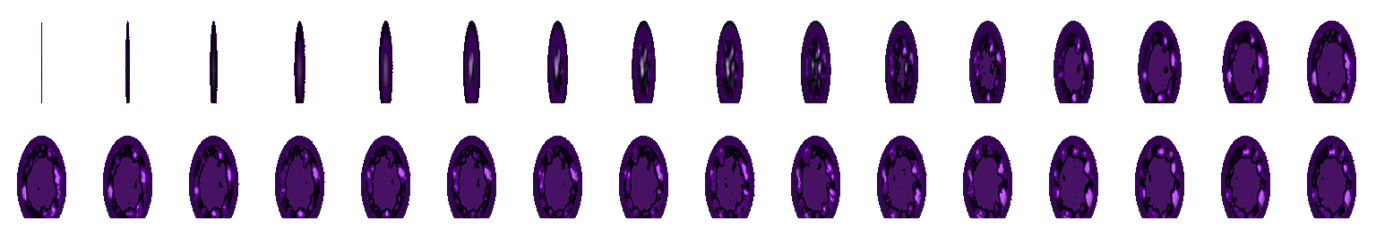
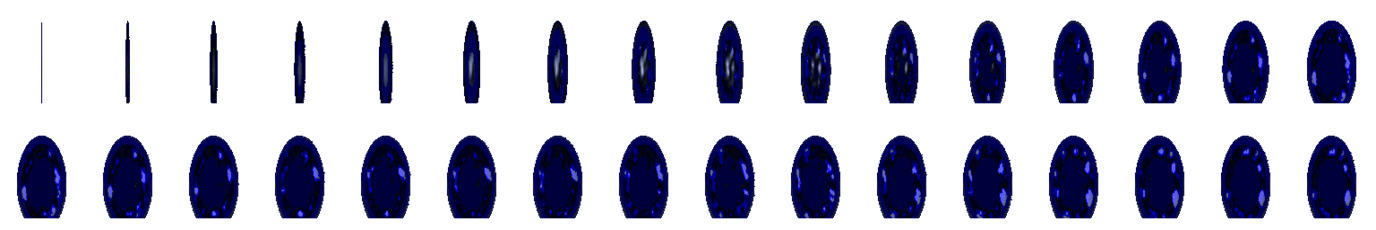
v1.12.088: rift play-pass fixes - the Guardian portal is violet at last (PNG missiles are quantised to a palette with no violet ramp: the sheet is vanilla's blue and scrollrt draws MissileID::RiftPortalPurple through GuardianPortalRgbTable, blue ramp -> violet values); Leave closes only the menu; a 

diff --git a/Source/oracool/rift.cpp b/Source/oracool/rift.cpp
@@ -1,6 +1,7 @@
 #include "oracool/rift.h"
 
 #include <algorithm>
+#include <array>
 #include <string>
 
 #include <fmt/format.h>
@@ -60,6 +61,11 @@ struct RiftState {
 	/** The entry tile in town has to be LEFT before it can be walked into: the hero stands beside
 	 * the gate to click it, and the tile in front is where they may already be standing. */
 	bool entryArmed = false;
+	/** A cleared Nephalem Rift's closing clock (NephalemRiftCloseSeconds): ticks until the rift ends on
+	 * its own, 0 when not running. */
+	int closeTicks = 0;
+	/** Ticks until the next "the guardian found no ground" note, so a stuck spawn says so once in a while. */
+	int spawnNoteTicks = 0;
 };
 
 RiftState State;
@@ -148,7 +154,9 @@ bool InRift()
 
 bool RiftForbidsTownPortal()
 {
-	return InRift() && State.kind == RiftKind::Guardian;
+	// Nowhere, since 2026-09-20 (user: "Town portals are to be allowed in Guardian Rift"). Plan r9
+	// refused it inside a Guardian Rift for one version.
+	return false;
 }
 
 int RiftTier()
@@ -221,7 +229,7 @@ bool UseGuardianKeystone(Player &player, const Item &keystone)
 		return false;
 	LightStonegate(RiftKind::Guardian);
 	LogEvent(StrCat("The keystone turns: a violet portal opens in the Rift Monument - a Guardian Rift, tier ", tier,
-	             ", fifteen minutes, no town portal. ", RiftGuardianName(State.guardian), " waits at the end."),
+	             ", fifteen minutes. ", RiftGuardianName(State.guardian), " waits at the end."),
 	    UiFlags::ColorWhitegold);
 	return true;
 }
@@ -485,6 +493,13 @@ void OnRiftMonsterKilled(const Monster &monster)
 			LogEvent(StrCat(RiftGuardianName(State.guardian), " falls, but the clock had run out: no keystone. The portal leads home."), UiFlags::ColorWhitegold);
 		else
 			LogEvent(StrCat(RiftGuardianName(State.guardian), " falls. The rift is cleared - the portal leads home."), UiFlags::ColorWhitegold);
+		// A cleared NEPHALEM Rift closes on its own a minute later (NephalemRiftCloseSeconds): the
+		// countdown runs on the HUD, and at zero a hero still inside is put down on the new-game spawn
+		// in town and the portal is gone. Nothing else ends it - the gate's menu no longer can.
+		if (State.kind == RiftKind::Nephalem) {
+			State.closeTicks = NephalemRiftCloseSeconds * RiftTicksPerSecond;
+			LogEvent(StrCat("The rift closes in ", NephalemRiftCloseSeconds, " seconds. Take what is yours."), UiFlags::ColorWhitegold);
+		}
 		PlayUiEventSound(UiEventSound::EncounterCleared);
 		return;
 	}
@@ -507,6 +522,18 @@ void ProcessRift()
 		}
 	}
 
+	// The cleared Nephalem Rift's closing clock, wherever the hero is. At zero: a hero still inside is
+	// sent to town's new-game spawn (WM_DIABRETOWN lands on ENTRY_MAIN, the (57, 67) a new hero starts
+	// on), the portal comes down and the rift is over.
+	if (State.closeTicks > 0 && --State.closeTicks == 0) {
+		const bool inside = InRift();
+		LogEvent(inside ? "The rift closes around you and spits you out in Tristram." : "The rift has closed; the Rift Monument falls dark.", UiFlags::ColorWhitegold);
+		CloseStonegate(); // removes the portal missiles, ends the rift, the closing sound
+		if (inside && MyPlayer != nullptr)
+			StartNewLvl(*MyPlayer, WM_DIABRETOWN, 0);
+		return;
+	}
+
 	if (leveltype == DTYPE_TOWN) {
 		// The portal in the gate after town is rebuilt (a death in the rift): AddStonegateObject runs
 		// before InitMissiles clears the list, so the relight happens here, once the missiles exist.
@@ -522,8 +549,17 @@ void ProcessRift()
 	if (!InRift() || State.guardianSpawned || State.creditNeeded <= 0 || State.credit < State.creditNeeded)
 		return;
 	Monster *guardian = SpawnRiftGuardian();
-	if (guardian == nullptr)
-		return; // no room this tick; tried again next tick
+	if (guardian == nullptr) {
+		// No room this tick; tried again next tick - and SAID so every five seconds, because a bar
+		// at 100% with no guardian in sight looked like nothing happening (user, 2026-09-20: "Diablo
+		// didn't spawn when i hit 100%").
+		if (State.spawnNoteTicks <= 0) {
+			LogEvent("The guardian finds no ground to rise on near you - move to open floor.", UiFlags::ColorRed);
+			State.spawnNoteTicks = 5 * RiftTicksPerSecond;
+		}
+		State.spawnNoteTicks--;
+		return;
+	}
 	State.guardianSpawned = true;
 	State.guardianId = guardian->getId();
 	LogEvent(StrCat("The rift shudders: ", RiftGuardianName(State.guardian), " rises!"), UiFlags::ColorRed);
@@ -540,6 +576,29 @@ bool RiftTimedOut() { return State.timedOut; }
 int RiftSecondsLeft()
 {
 	return (State.ticksLeft + RiftTicksPerSecond - 1) / RiftTicksPerSecond;
+}
+
+int RiftCloseSecondsLeft()
+{
+	return (State.closeTicks + RiftTicksPerSecond - 1) / RiftTicksPerSecond;
+}
+
+const uint32_t *GuardianPortalRgbTable()
+{
+	// The violet the palette never had (2026-09-20, user: "Guardian rift portal is not purple and
+	// its core background is not purple either"): missiles\portal_purple.png is quantised to the
+	// palette on load like every PNG missile, and the shared half has blue, gold, red and grey ramps
+	// but no purple, so the hue-shifted sheet came out blue. The sheet is therefore built in
+	// vanilla's own BLUE (the PAL8_BLUE ramp, indices 128-135, with a dark blue centre fill) and the
+	// Guardian portal is drawn through this table, which sends those eight blues to a violet ramp
+	// and everything else to the palette as it is - the green plate's mechanism (SetSpellTransGreen).
+	static std::array<uint32_t, 256> table;
+	static constexpr uint32_t Violet[8] = { 0xE6B4FF, 0xC080F5, 0x9B50D8, 0x7A34B4, 0x5C2290, 0x40146A, 0x280A46, 0x140424 };
+	for (int i = 0; i < 256; i++)
+		table[static_cast<size_t>(i)] = PaletteRGB[static_cast<size_t>(i)];
+	for (int i = 0; i < 8; i++)
+		table[static_cast<size_t>(PAL8_BLUE + i)] = Violet[i];
+	return table.data();
 }
 
 int RiftProgressPercent()
@@ -568,7 +627,9 @@ void DrawRiftHud(const Surface &out)
 	const int y = miniMap.position.y + miniMap.size.height + Gap;
 
 	std::string label = RiftKindName(State.kind);
-	if (State.done)
+	if (State.done && State.closeTicks > 0)
+		label += fmt::format(": cleared - closes in {:d}s", RiftCloseSecondsLeft()); // the countdown (user, 2026-09-20)
+	else if (State.done)
 		label += ": cleared";
 	else if (State.guardianSpawned)
 		label += StrCat(": ", RiftGuardianName(State.guardian));

diff --git a/Source/oracool/rift.h b/Source/oracool/rift.h
@@ -53,6 +53,13 @@ enum class RiftGuardianType : uint8_t {
 /** @brief The Guardian Rift's clock (r9): fifteen minutes, Diablo III's number, a first value for play. */
 constexpr int GuardianRiftSeconds = 15 * 60;
 constexpr int RiftTicksPerSecond = 20;
+/**
+ * @brief A cleared NEPHALEM Rift stays open this long after its guardian falls, then closes on its own
+ * (user, 2026-09-20: "Nephalem rift stays open for 60 seconds after its boss has been killed. It cant be
+ * closed any other way. Only New Game is the option ... If the player is in the Nef Rift while countdown
+ * hits 0 player is teleported to new-game spawn location and the rift portal is now gone").
+ */
+constexpr int NephalemRiftCloseSeconds = 60;
 
 /** @brief Kill credit toward the bar (r4): an ordinary monster, a champion or variant, a unique or boss. */
 constexpr int RiftCreditOrdinary = 1;
@@ -77,7 +84,11 @@ _setlevels RiftLevelFor(RiftKind kind);
 RiftKind ActiveRift();
 /** @brief Whether the local hero is standing inside the active rift. */
 bool InRift();
-/** @brief InRift() and the rift is a Guardian Rift - the town portal is refused there (r9). */
+/**
+ * @brief Whether the town portal is refused where the hero stands. ALWAYS FALSE since 2026-09-20 (user:
+ * "Town portals are to be allowed in Guardian Rift"); plan r9's refusal is history. Kept so the spell
+ * check keeps one question to ask.
+ */
 bool RiftForbidsTownPortal();
 
 int RiftTier();
@@ -161,6 +172,14 @@ bool RiftGuardianSpawned();
 bool RiftDone();
 bool RiftTimedOut();
 int RiftSecondsLeft();
+/** @brief Seconds until a cleared Nephalem Rift closes on its own (NephalemRiftCloseSeconds), 0 when no clock runs. */
+int RiftCloseSecondsLeft();
+/**
+ * @brief The Guardian portal's draw table for the 32-bit screen: the palette as it is, except the
+ * PAL8_BLUE ramp sent to violet values - the portal's sheet is vanilla's blue, since the palette has no
+ * violet to quantise to. scrollrt.cpp draws MissileID::RiftPortalPurple through it.
+ */
+const uint32_t *GuardianPortalRgbTable();
 int RiftProgressPercent();
 
 /** @brief The bar and the clock under the mini-map while the hero is in a rift. */

diff --git a/Source/monster.cpp b/Source/monster.cpp
@@ -778,7 +778,11 @@ void PlaceRiftMonsters()
 				na++;
 		}
 	}
-	int numplacemonsters = na / 30 * *sgOptions.Oracool.monsterDensityPercent / 100;
+	// TWICE a floor's count (user, 2026-09-20: "I reached 100% very fast. Make it require twice as
+	// many kills"): the bar is a share of the floor's total credit (RiftBarPercentOfFloor), so doubling
+	// the floor doubles the kills it takes while the bar stays reachable - a share above 100% of one
+	// floor never could be. The cap below still holds.
+	int numplacemonsters = 2 * (na / 30 * *sgOptions.Oracool.monsterDensityPercent / 100);
 	if (ActiveMonsterCount + numplacemonsters > MaxEnemyMonsters - 10)
 		numplacemonsters = static_cast<int>(MaxEnemyMonsters - 10 - ActiveMonsterCount);
 	totalmonsters = ActiveMonsterCount + numplacemonsters;
@@ -4294,8 +4298,10 @@ Monster *SpawnRiftGuardian()
 	// monster. Close enough to be the event, far enough not to land on the hero's toes. NOT
 	// CanPlaceMonster: that one refuses any tile the hero can SEE, which is the point here (audit,
 	// 2026-09-20 - in a lit room nothing within twelve tiles passed it and he never rose).
+	// Out to forty tiles, not twelve (2026-09-20): a hero in a tight Hell corridor had nothing within
+	// twelve that passed, and the guardian never rose - "Diablo didn't spawn when i hit 100%".
 	std::optional<Point> spot;
-	for (int radius = 3; radius <= 12 && !spot; radius++) {
+	for (int radius = 3; radius <= 40 && !spot; radius++) {
 		for (int dx = -radius; dx <= radius && !spot; dx++) {
 			for (int dy = -radius; dy <= radius; dy++) {
 				if (std::max(std::abs(dx), std::abs(dy)) != radius)

diff --git a/Source/oracool/stonegate_menu.cpp b/Source/oracool/stonegate_menu.cpp
@@ -122,7 +122,11 @@ std::string RowLabel(int row, bool &enabled)
 		return fmt::format(fmt::runtime(_("Open a Guardian Rift  (keystone, tier {:d})")), player.InvList[keystone]._iOracoolRiftTier);
 	}
 	default:
-		return std::string(ActiveRift() != RiftKind::None ? _("Close the gate - the rift ends") : _("Leave the gate dark"));
+		// LEAVE closes this menu and nothing else (user, 2026-09-20: "Leave is meant to close the Rift
+		// Monument UI"): a rift is never closed from here - a cleared Nephalem Rift closes itself a
+		// minute after its guardian falls (NephalemRiftCloseSeconds), and nothing but a new game ends
+		// one otherwise.
+		return std::string(_("Leave"));
 	}
 }
 
@@ -261,11 +265,7 @@ bool CheckStonegateMenuClick(Point mousePosition)
 				LogEvent("The keystone would not turn here.", UiFlags::ColorRed);
 			break;
 		default:
-			if (ActiveRift() != RiftKind::None) {
-				CloseStonegate();
-				LogEvent("The Rift Monument falls dark; the rift is gone.", UiFlags::ColorWhitegold);
-			}
-			break;
+			break; // Leave: the menu is already closed above, the rift - if any - stands
 		}
 		return true;
 	}

diff --git a/Source/engine/render/scrollrt.cpp b/Source/engine/render/scrollrt.cpp
@@ -378,6 +378,13 @@ void DrawMissilePrivate(const Surface &out, const Missile &missile, Point target
 		return;
 	const Point missileRenderPosition { targetBufferPosition + missile.position.offsetForRendering - Displacement { missile._miAnimWidth2, 0 } };
 	const ClxSprite sprite = (*missile._miAnimData)[missile._miAnimFrame - 1];
+	// Oracool: the Guardian Rift's portal is VIOLET, a colour the palette has no ramp for - its sheet
+	// is vanilla's blue and this draw sends the blue ramp to violet values (GuardianPortalRgbTable).
+	// Unlit on purpose: a portal glows.
+	if (!out.isIndexed() && missile._mitype == MissileID::RiftPortalPurple) {
+		ClxDrawRgbMap(out, missileRenderPosition, sprite, oracool::GuardianPortalRgbTable());
+		return;
+	}
 	// Oracool: a caller-supplied recolour, checked before the unique-monster one because a player's
 	// missile can never have the latter. See Missile::oracoolTrn.
 	if (missile.oracoolTrn != nullptr)

diff --git a/Source/objdat.h b/Source/objdat.h
@@ -188,7 +188,7 @@ constexpr uint16_t OracoolLevskiRoarAnimWidth = 96;
  * inside its opening (the town portal is 96 wide, the opening 72; the stone around it makes 192). Sized
  * from the measured portal sheet, not by taste; tools\build_stonegate_cel.cmd prints what it produced.
  */
-constexpr uint16_t OracoolStonegateAnimWidth = 128; // batch 44 (RfA-21): 128x160 frames sized to the real 96x128 portal; batch 42's were 192x304
+constexpr uint16_t OracoolStonegateAnimWidth = 372; // the user's painting at 128 wide, padded 122 a side for its cast shadow (tools/ScalePainting.ps1 -ShadowLength 0.9, 2026-09-20); the painting itself stays centred on the tile. Was 128 (batch 44/45, no shadow)
 
 enum _object_id : int8_t {
 	OBJ_L1LIGHT,

diff --git a/Source/items.cpp b/Source/items.cpp
@@ -2798,7 +2798,7 @@ void PrintItemOil(const Item &item)
 	case IMISC_ORACOOL_KEYSTONE:
 		// The tier is the whole item (oracool/rift.h): it says what the rift will be before the key is spent.
 		AddPanelString(fmt::format(fmt::runtime(_("opens a Guardian Rift of tier {:d}")), item._iOracoolRiftTier));
-		AddPanelString(_("fifteen minutes, no town portal; Diablo or Na-Krul at the end"));
+		AddPanelString(_("fifteen minutes; Diablo or Na-Krul at the end"));
 		AddPanelString(_("use in town - the keystone is consumed"));
 		break;
 	case IMISC_ORACOOL_SIGNET:

diff --git a/.ProjectDocumentation/02-Development-Reports/2026-09-20-rift-play-pass-fixes-v1.12.088.md b/.ProjectDocumentation/02-Development-Reports/2026-09-20-rift-play-pass-fixes-v1.12.088.md
@@ -1,0 +1,53 @@
+---
+date: 2026-09-20
+version: 1.12.088
+tags: [dev-report, rifts, play-pass, art]
+---
+
+# Rift play pass: six fixes (v1.12.088)
+
+## The asks
+
+> "Guardian rift portal is not purple and its core background is not purple either. fix it. When i click Leave button it closes Nephalem Rift if such is open. I dont want that. Leave is meant to close the Rift Monument UI. Nephalem rift stays open for 60 seconds after its boss has been killed. It cant be closed any other way. Only New Game is the option. There should be a countdown timer 60 to 0 seconds when the Boss has been killed. If the player is in the Nef Rift while countdown hits 0 player is teleported to new-game spawn location and the rift portal is now gone. Town portals are to be allowed in Guardian Rift. Diablo didn't spawn when i hit 100%. I reached 100% very fast. Make it require twice as many kills." And: "rift monument asset to be darker to match the rocks better."
+
+## 1. The violet portal
+
+**Cause:** every PNG missile sheet is quantised to the palette's shared half on load (`LoadPngMissileSheet` -> `NearestSharedIndex`), and that half has blue, gold, red and grey ramps but no violet - so the hue-shifted `portal_purple.png` landed on the blue ramp and drew blue, centre fill included.
+
+**Fix:** the sheet is now built in vanilla's own BLUE (`BuildRiftPortals.ps1`, hue -1, a dark blue centre fill (0,0,60) that quantises into the same ramp), and `DrawMissilePrivate` draws `MissileID::RiftPortalPurple` on the 32-bit screen through `oracool::GuardianPortalRgbTable()` with `ClxDrawRgbMap`: the palette as it is, except the eight PAL8_BLUE entries (128-135) sent to a violet ramp. The green skill plate's mechanism, applied to a missile. Unlit on purpose.
+
+## 2. Leave closes only the menu
+
+`stonegate_menu.cpp`: the third row is "Leave" and does nothing but close the popup. No rift is closed from the menu any more (`CloseStonegate` stays for the code's own use).
+
+## 3. The Nephalem closing clock
+
+`RiftState::closeTicks`, set to `NephalemRiftCloseSeconds` (60) x 20 when a Nephalem guardian falls, counted down in `ProcessRift` wherever the hero is. The HUD label reads "cleared - closes in Ns". At zero: `CloseStonegate` (the portals come down, the rift ends, the closing sound) and, if the hero is still inside, `StartNewLvl(WM_DIABRETOWN, 0)` - the town's ENTRY_MAIN placement, the (57, 67) a new hero starts on. A Guardian Rift keeps its own clock and the way home as before.
+
+## 4. Town portals in Guardian rifts
+
+`RiftForbidsTownPortal` returns false everywhere (plan r9's refusal is history); the keystone's log line and the item's hover line no longer say "no town portal".
+
+## 5. The guardian that did not rise
+
+No single proven cause. Two changes: `SpawnRiftGuardian` searches out to forty tiles for open ground instead of twelve (a tight corridor could pass nothing within twelve), and `ProcessRift` logs "The guardian finds no ground to rise on near you - move to open floor" every five seconds while the bar is full and the spawn keeps failing, so a stuck spawn says so instead of looking like nothing.
+
+## 6. Twice the kills
+
+`PlaceRiftMonsters` places twice a floor's count (the cap at `MaxEnemyMonsters - 10` still holds). The bar stays 70% of the floor's total credit, so it now takes twice the kills and remains reachable; a share above 100% of one floor never could be.
+
+## The monument: the user's own repaint
+
+First darkened in code (brightness 0.42 against the earlier 0.78, checked against the user's screenshot of the rocks beside it); then the user repainted `ResourcesRift Monument.png` itself in blue slate ("use this new Rift Monument asset") and it is scaled AS PAINTED - no toning - into the one-frame CEL. `build_stonegate_cel.cmd`'s header records both.
+
+## Build
+
+v1.12.088: built clean twice (the code, then the repainted monument with its shadow and the 372 sprite width), ctest 831/831 both times.
+
+## The monument, second pass: the user's repaint, the rocks' slate, a cast shadow
+
+Mid-build the user replaced `Resources\Rift Monument.png` with a blue-slate repaint ("use this new Rift Monument asset"), then asked to "match it to the rocks colours" and to "draw a black shadow cast east-northeast from it. to look more natural".
+
+- **Colour:** the repaint at brightness 0.7, cast fully onto the rocks' own dark slate (57,65,95 - the hue of the dark end of the town palette's blue-grey ramp, so the nearest-colour quantiser lands cleanly, 244 distinct colours in the CEL and no speckle).
+- **Shadow:** a new pass in `ScalePainting.ps1` (`-ShadowLength 0.9 -ShadowRise 0.25 -ShadowBaseline 12`): every opaque pixel h above the ground line lands 0.9h to the right and 0.25h up, as an opaque near-black pixel (a translucent shadow would vanish at the CEL's alpha cut, and index 0 is transparent). Drawn under the painting. The canvas is padded 122px a side so the painting stays centred on its tile; `OracoolStonegateAnimWidth` is 372. Both the monument and the arch over the town portal share the frame.
+- `build_stonegate_cel.cmd`'s header carries the whole recipe.
